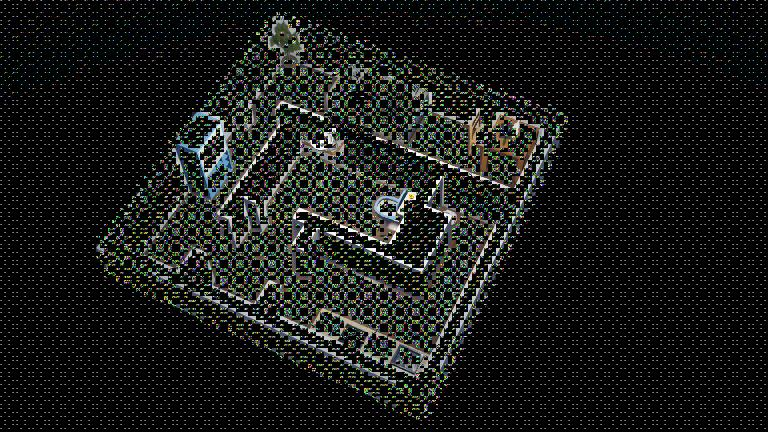
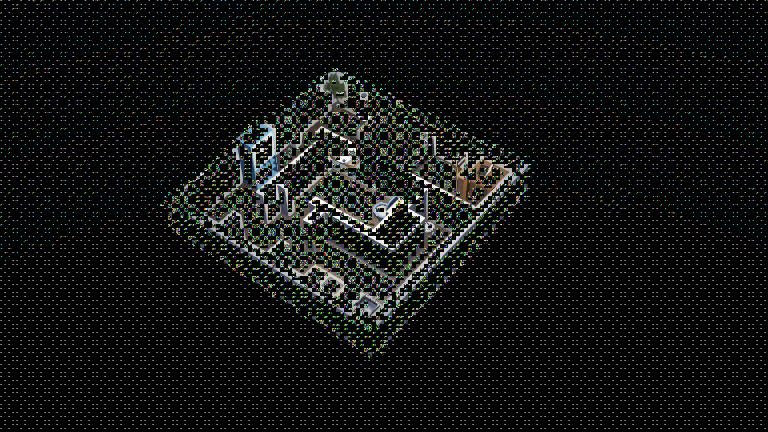
[Update] Set benchmarking time to 1800s (30min)

diff --git a/vacusim_robot_driver/controllers/ground/ground.c b/vacusim_robot_driver/controllers/ground/ground.c
@@ -42,7 +42,7 @@
 #define GROUND_Y 6.25
 
 // Evaluation
-#define EVALUATION_TIME 600.0 // Ten minutes
+#define EVALUATION_TIME 1800.0 // thirty minutes
 
 #define SIZE 512
 